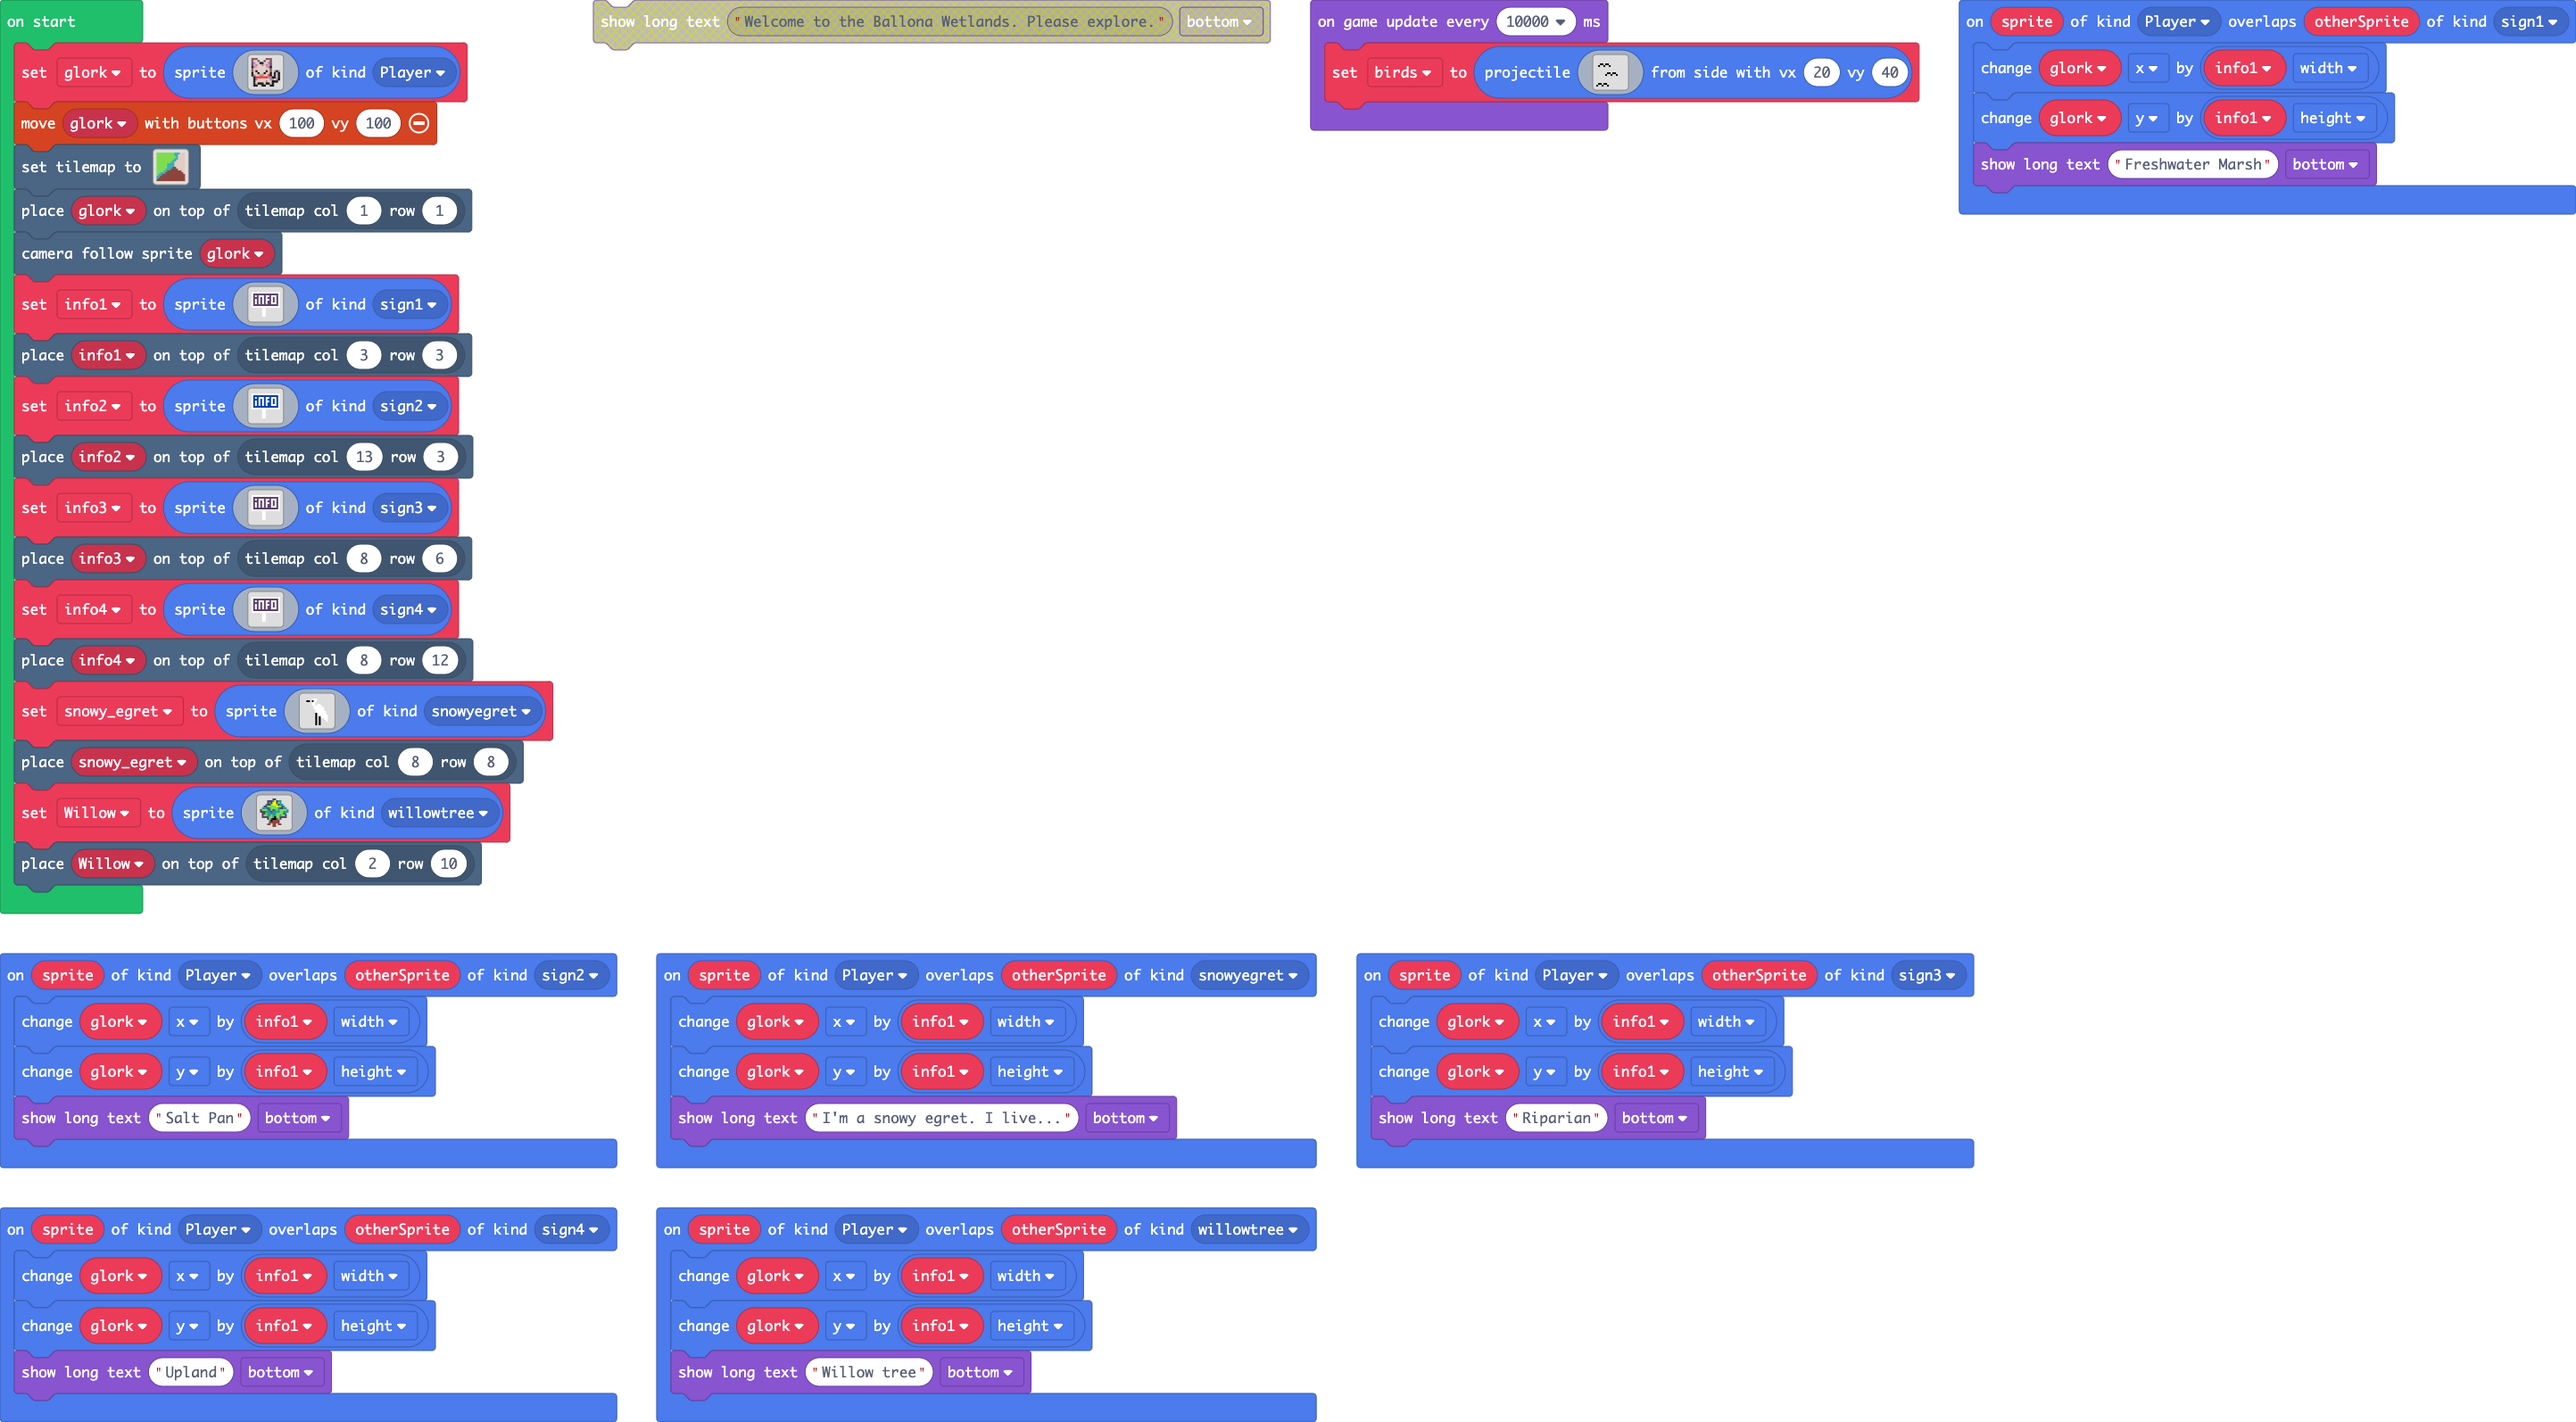
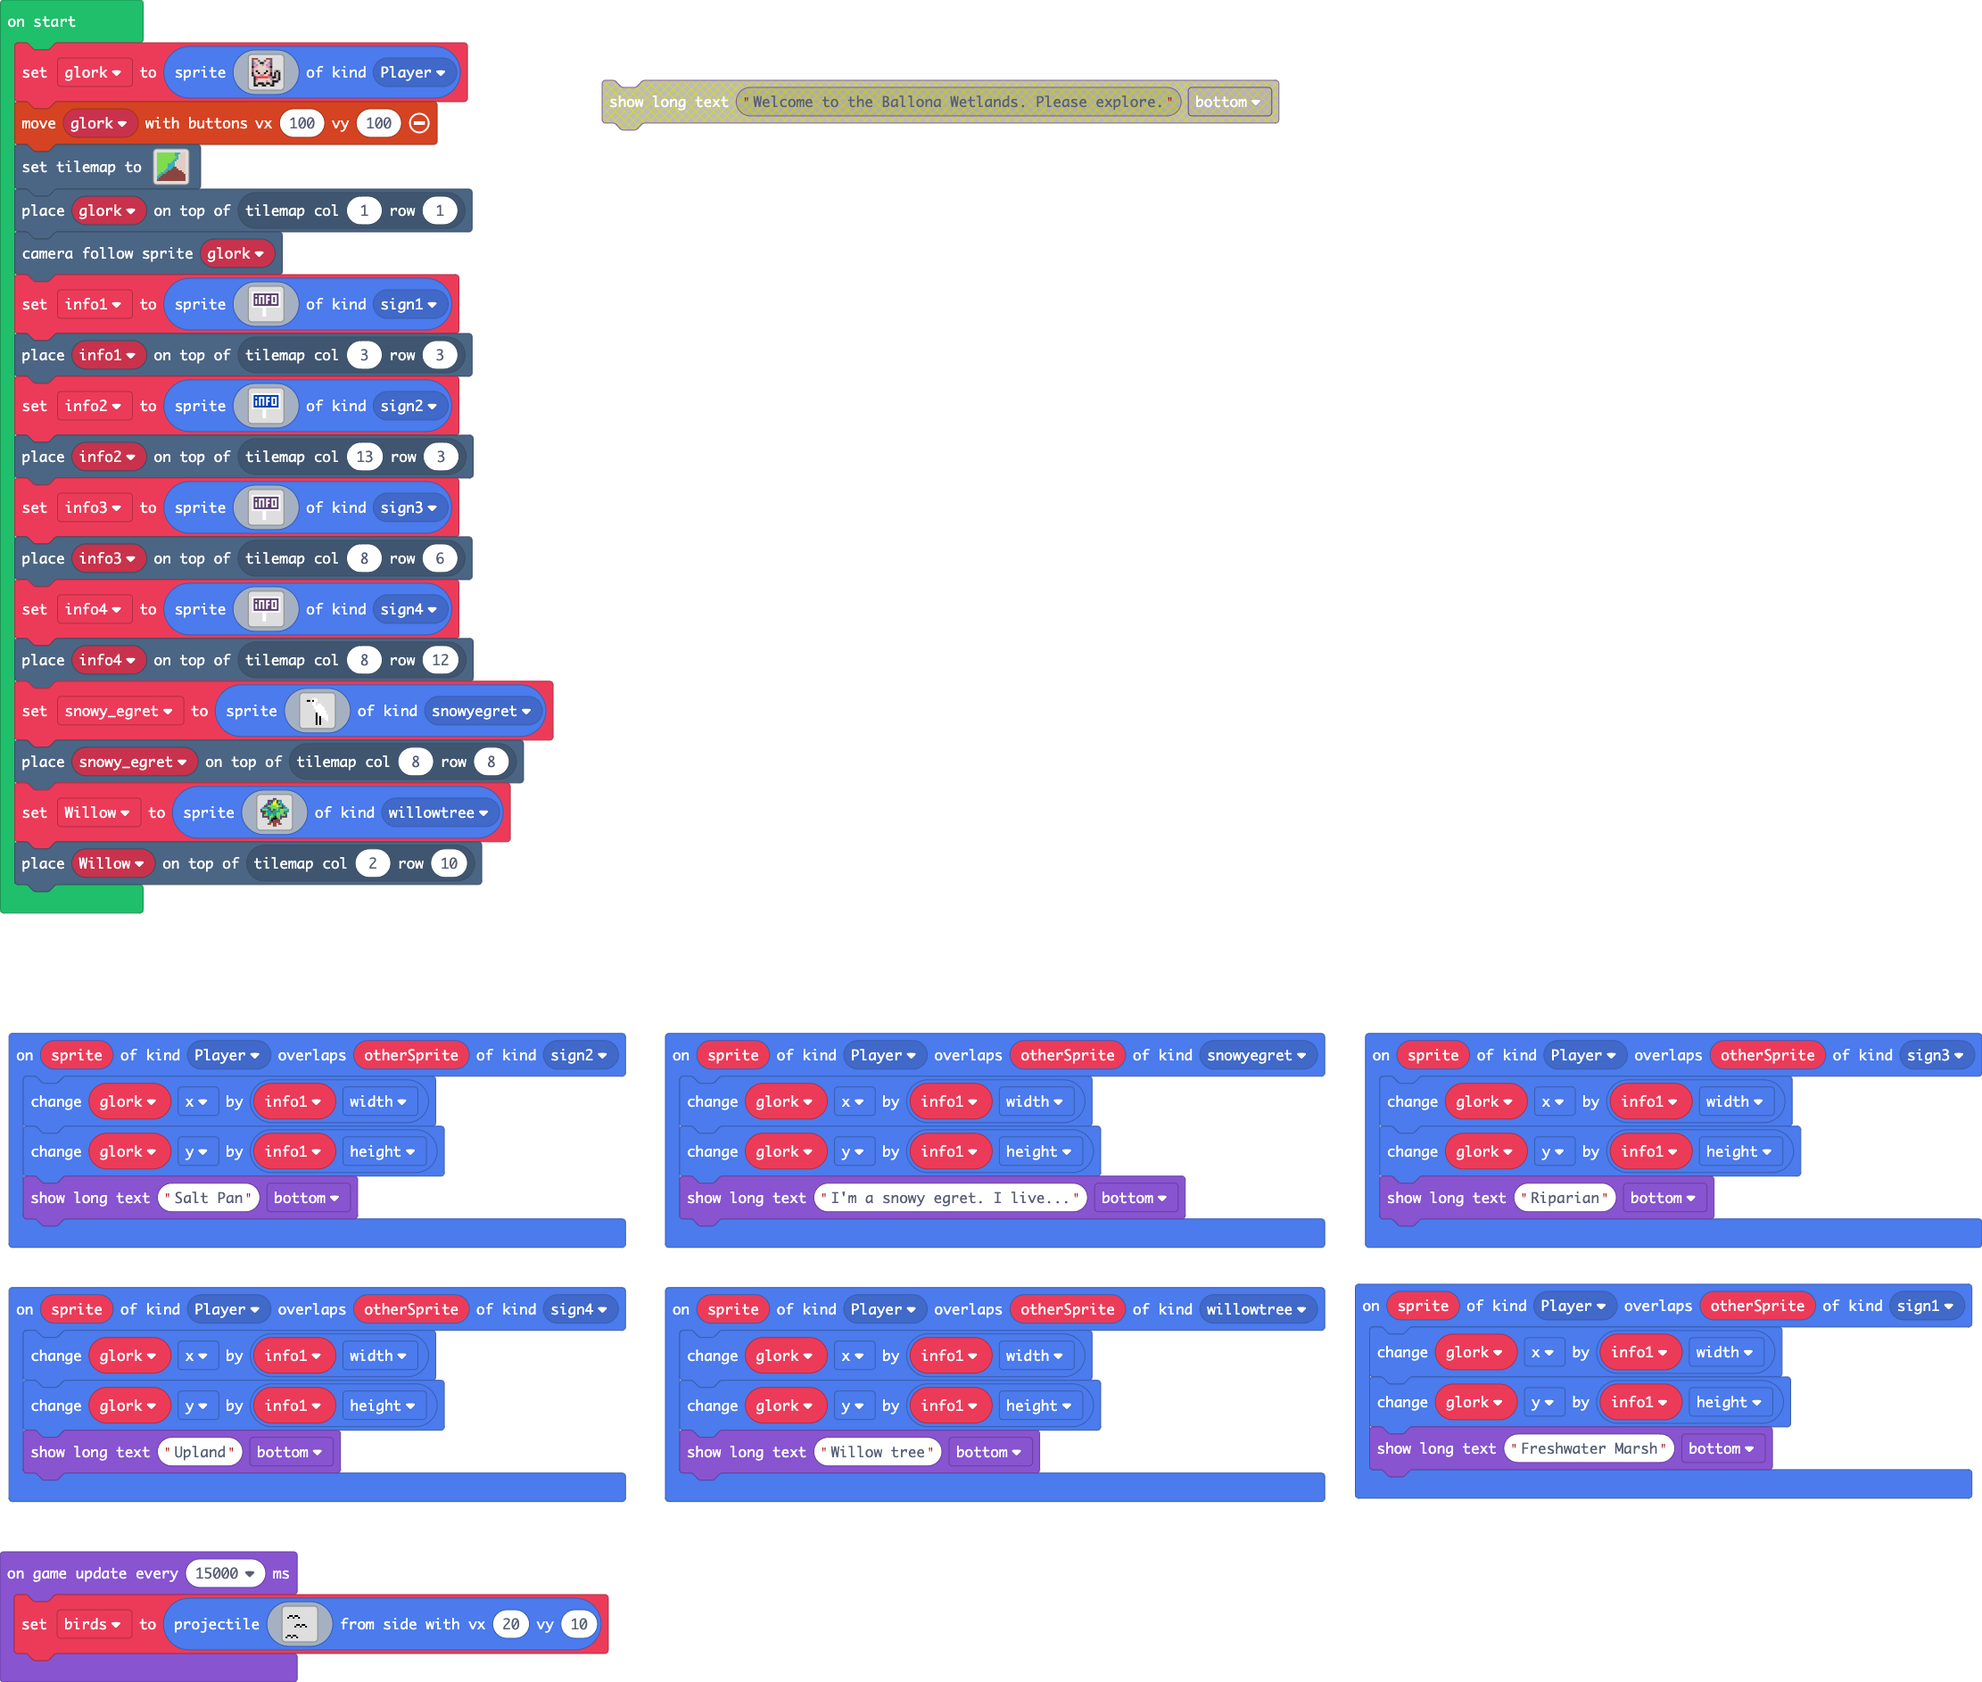
change bird velocity

diff --git a/main.ts b/main.ts
@@ -312,7 +312,7 @@ c c c 6 6 6 c 6 6 6 6 7 7 6 6 6
 . . . . . . . e e . . . . . . . 
 `, SpriteKind.willowtree)
 tiles.placeOnTile(Willow, tiles.getTileLocation(2, 10))
-game.onUpdateInterval(10000, function () {
+game.onUpdateInterval(15000, function () {
     birds = sprites.createProjectileFromSide(img`
 . . . . . . . . . . . . . . . . 
 . . . . . . . . . . . . . . . . 
@@ -330,5 +330,5 @@ game.onUpdateInterval(10000, function () {
 . . . . . . . . . . . . . . . . 
 . f f . f f . . . . . . . . . . 
 f . . f . . f . . . . . . . . . 
-`, 20, 40)
+`, 20, 10)
 })
